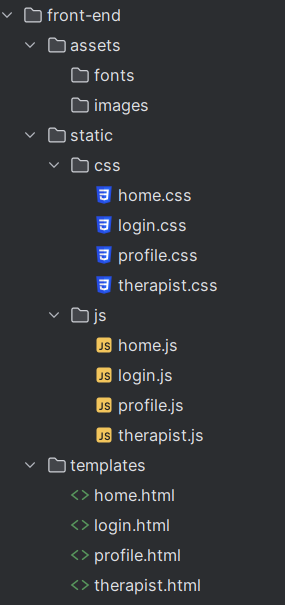
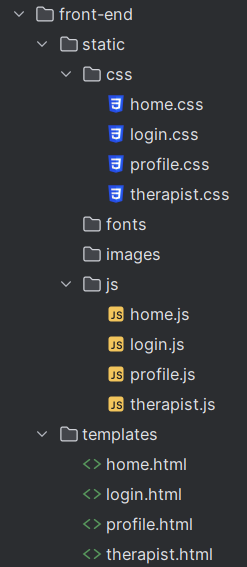
docs

diff --git a/docs/frontend/web_page/template.md b/docs/frontend/web_page/template.md
@@ -24,6 +24,5 @@ all html files are made according to the following template:<br>
 the file structure is as follows:<br>
 
 the templates folder had all the html files,<br>
-the static folder has the css and js files in their folders.<br>
-and any assests like images or fonts can be stored inside of the assets folder.<br>
+the static folder has the css and js files in their folders as well as all the assets like fonts and images.
 ![structure.png](structure.png)